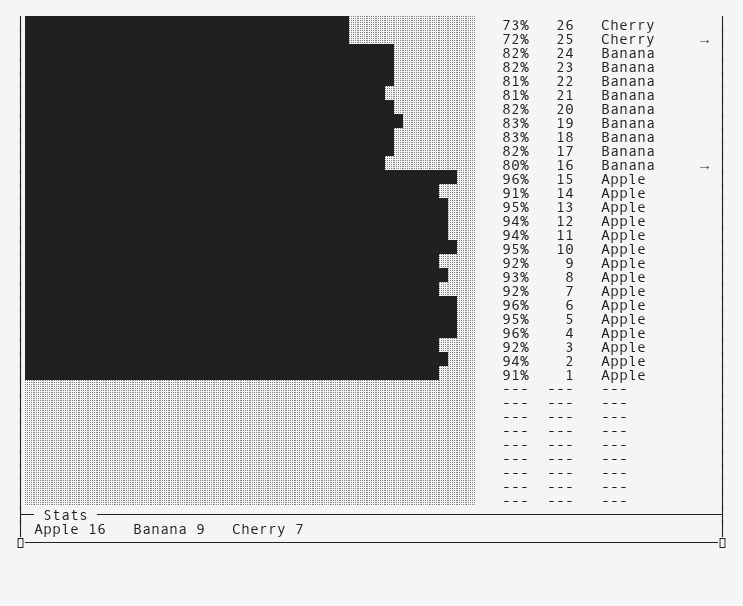
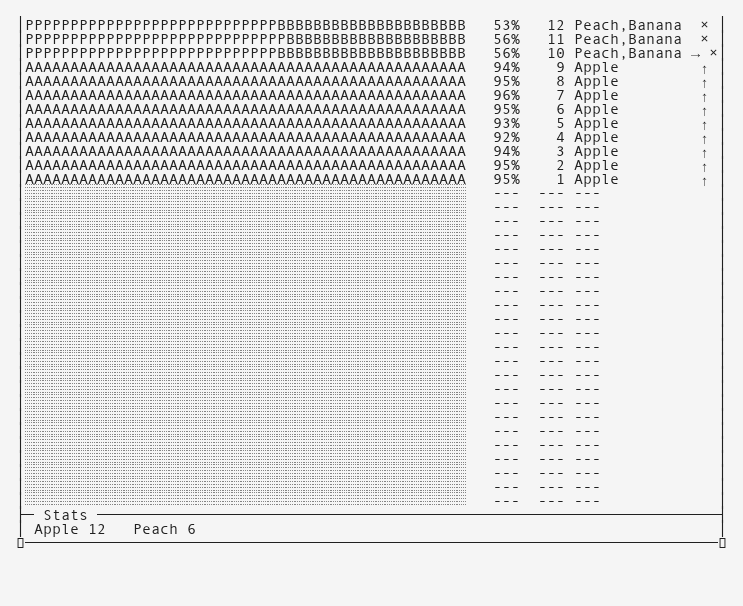
chore: regen screenshots for letter-bar threshold UI

diff --git a/scripts/fruits-demo.py b/scripts/fruits-demo.py
@@ -23,19 +23,25 @@ from trik_mind.output import UserOutputFormatter
 class FruitDemo:
     """Generates a realistic prediction stream for visual QA of the dashboard.
 
-    Emits three types of events:
-    - High-conf detection (normal)
-    - Low-conf / uncertain (simulates no clear label)
-    - Error (simulates camera / model failure)
+    Emits a sequence of curated scenarios so every part of the new stacked
+    letter-bar is exercised:
+    - High-conf detection (normal)          — thick winner, thin runners
+    - Apple/Peach confusion (near-tie)      — "peach misread as apple" case:
+      both labels mid+, nearly equal split, visible as A|P segments
+    - Confident split across 3 labels       — A/B/C segments all visible
+    - Hold (winner between view & send)     — shown but NOT sent to robot
+    - Low-conf / uncertain (no mid label)   — dim empty bar
+    - Error (simulated camera failure)      — "---" row
     """
 
-    LABELS: ClassVar[list[str]] = ["Apple", "Banana", "Cherry", "Dewberry"]
+    LABELS: ClassVar[list[str]] = ["Apple", "Peach", "Banana", "Cherry"]
+    VIEW_THRESHOLD: ClassVar[float] = 0.4
+    SEND_THRESHOLD: ClassVar[float] = 0.6
 
     def __init__(self, formatter: UserOutputFormatter) -> None:
         self._fmt = formatter
         self._running = True
         self._label_ix = 0
-        self._same = 0
         self._phase = "high"
         self._phase_countdown = 0
         signal.signal(signal.SIGINT, self._signal)
@@ -46,54 +52,70 @@ class FruitDemo:
         self._fmt.close()
         raise SystemExit(0)
 
-    def _top3(self, ix: int, base: float = 0.95) -> list[tuple[str, float]]:
-        """Top-3 labels with declining confidence from *base*."""
-        return [(self.LABELS[(ix + i) % 4], max(base - i * 0.18, 0.01)) for i in range(3)]
+    def _dist(self, ix: int, scenario: str) -> tuple[str, float, list[tuple[str, float]]]:
+        """Return (label, confidence, top_labels) for the given scenario.
+
+        Scenarios select distinct distributions over the label pool so each
+        stacked-bar case is visible: clear winner, near-tie, 3-way spread,
+        and low-uncertainty (no mid+ label).
+        """
+        if scenario == "high":
+            base = [0.94, 0.14, 0.06, 0.02]
+        elif scenario == "peach":
+            base = [0.85, 0.78, 0.05, 0.02]
+        elif scenario == "spread":
+            base = [0.82, 0.70, 0.58, 0.10]
+        elif scenario == "hold":
+            base = [0.55, 0.42, 0.12, 0.04]
+        else:  # low
+            base = [0.42, 0.34, 0.22, 0.15]
+        jitter = [random.uniform(-0.02, 0.02) for _ in base]
+        labels = sorted(  # keep sorted desc by confidence, like a real model
+            [(self.LABELS[(ix + i) % 4], max(0.01, base[i] + jitter[i])) for i in range(4)],
+            key=lambda x: -x[1],
+        )
+        return labels[0][0], round(labels[0][1], 3), labels
 
     def step(self) -> None:
-        """Emit one prediction frame with varying confidence levels."""
+        """Emit one prediction frame with varying confidence distributions."""
         # Manage phases
         self._phase_countdown -= 1
         if self._phase_countdown <= 0:
-            # Pick a new phase
+            # Pick a new scenario
             r = random.random()
-            if r < 0.15:  # 15% chance: error burst
+            if r < 0.12:  # 12% chance: error burst
                 self._phase = "error"
                 self._phase_countdown = int(random.uniform(1, 3))
-            elif r < 0.30:  # 15% chance: low-conf uncertainty
+            elif r < 0.26:  # 14% chance: low-conf uncertainty (no mid label)
                 self._phase = "low"
                 self._phase_countdown = int(random.uniform(3, 7))
-            else:  # 70% chance: normal high-conf detection
+            elif r < 0.5:  # 24% chance: apple/peach confusion (near-tie)
+                self._phase = "peach"
+                self._phase_countdown = int(random.uniform(5, 12))
+                self._label_ix = 0  # force Apple-lead so Peach appears as runner
+            elif r < 0.62:  # 12% chance: winner between view and send — shown, held back
+                self._phase = "hold"
+                self._phase_countdown = int(random.uniform(4, 8))
+            else:  # 38% chance: normal high-conf detection
                 self._phase = "high"
                 self._phase_countdown = int(random.uniform(8, 16))
                 self._label_ix = (self._label_ix + 1) % 4
-                self._same = 0
 
         timing = 0.028 + random.uniform(0, 0.015)
         sleep_s = 1.0 / (10 + random.uniform(0, 7))
 
         if self._phase == "error":
-            self._fmt.on_error(timing, self._top3(self._label_ix, 0.1))
+            label, conf, labels = self._dist(self._label_ix, "low")
+            self._fmt.on_error(timing, labels)
             time.sleep(sleep_s)
             return
 
-        if self._phase == "low":
-            # All labels have similar low confidence — model is uncertain
-            low_base = 0.1 + random.uniform(0, 0.15)
-            label = self.LABELS[self._label_ix]
-            conf = round(low_base + random.uniform(0, 0.08), 3)
-            self._fmt.on_prediction(label, conf, timing, self._top3(self._label_ix, low_base))
-            time.sleep(sleep_s)
-            return
-
-        # High-conf normal detection
-        if self._same >= 8 + int(random.uniform(0, 7)):
-            self._label_ix = (self._label_ix + 1) % 4
-            self._same = 0
-        label = self.LABELS[self._label_ix]
-        conf = round(0.95 - random.uniform(0, 0.12), 3)
-        self._fmt.on_prediction(label, conf, timing, self._top3(self._label_ix, 0.95))
-        self._same += 1
+        label, conf, labels = self._dist(self._label_ix, self._phase)
+        if conf < self.VIEW_THRESHOLD:
+            self._fmt.on_error(timing, labels)
+        else:
+            self._fmt.on_prediction(label, conf, timing, labels, sent=conf >= self.SEND_THRESHOLD)
+        self._label_ix = (self._label_ix + 1) % 4
         time.sleep(sleep_s)
 
     def run(self, duration: float | None) -> None:

diff --git a/scripts/render-screenshots.py b/scripts/render-screenshots.py
@@ -15,14 +15,14 @@ from __future__ import annotations
 import argparse
 import re
 from pathlib import Path
-from typing import TYPE_CHECKING
+from typing import NamedTuple, TYPE_CHECKING
 
 from PIL import Image, ImageDraw, ImageFont
 
 if TYPE_CHECKING:
     from collections.abc import Generator
 
-# ANSI SGR colour map (8-colour foreground, keyed by code digit)
+# ANSI SGR colour maps (8-colour foreground/background, keyed by code digit)
 _SGR_FG: dict[str, tuple[int, int, int]] = {
     "30": (0, 0, 0),
     "31": (0xCC, 0, 0),
@@ -41,6 +41,13 @@ _SGR_FG: dict[str, tuple[int, int, int]] = {
     "96": (0, 0xFF, 0xFF),
     "97": (0xFF, 0xFF, 0xFF),
 }
+_SGR_BG: dict[str, tuple[int, int, int]] = {
+    "41": (0xCC, 0, 0),
+    "42": (0, 0xCC, 0),
+    "43": (0xCC, 0xCC, 0),
+    "44": (0x33, 0x33, 0xFF),
+    "45": (0xCC, 0, 0xCC),
+}
 
 _ANSI_ESC = re.compile(r"\033\[([0-9;]*)m")
 _FULL_BLOCK = "\u2588"  # █
@@ -58,9 +65,10 @@ _FONT_SIZE = 15
 _FONT_PATH = "/usr/share/fonts/truetype/andale/Andale_Mono.ttf"
 
 
-def _segments(text: str) -> Generator[tuple[str, tuple[int, int, int] | None], None, None]:
-    """Yield (char, colour|None) for each visible character, consuming ANSI codes."""
+def _segments(text: str) -> Generator[tuple[str, tuple[int, int, int] | None, tuple[int, int, int] | None], None, None]:
+    """Yield (char, fg_colour, bg_colour) for each visible character, consuming ANSI codes."""
     fg: tuple[int, int, int] | None = None
+    bg: tuple[int, int, int] | None = None
     i = 0
     while i < len(text):
         m = _ANSI_ESC.match(text, i)
@@ -68,12 +76,15 @@ def _segments(text: str) -> Generator[tuple[str, tuple[int, int, int] | None], N
             params, i = m.group(1), m.end()
             if not params or params == "0":
                 fg = None
+                bg = None
                 continue
             for p in params.split(";"):
                 if p in _SGR_FG:
                     fg = _SGR_FG[p]
+                elif p in _SGR_BG:
+                    bg = _SGR_BG[p]
             continue
-        yield text[i], fg
+        yield text[i], fg, bg
         i += 1
 
 
@@ -82,6 +93,28 @@ def _load_font() -> ImageFont.FreeTypeFont | ImageFont.ImageFont:
         return ImageFont.truetype(_FONT_PATH, _FONT_SIZE)
     except OSError:
         return ImageFont.load_default()
+
+
+_Cell = NamedTuple("_Cell", [("char", str), ("fg", tuple[int, int, int] | None), ("bg", tuple[int, int, int] | None), ("x", int), ("y", int), ("x_end", int), ("y_end", int), ("font", "ImageFont.FreeTypeFont | ImageFont.ImageFont"), ("fg_default", tuple[int, int, int]), ("bg_default", tuple[int, int, int])])  # type: ignore[no-any-expr]  # pyright: ignore[reportUnknownVariableType,reportMissingTypeArgument]
+
+
+def _draw_cell(draw: ImageDraw.ImageDraw, cell: _Cell) -> None:
+    """Paint one terminal cell: optional bg fill, then block/dot/text glyph."""
+    colour = cell.fg if cell.fg is not None else cell.fg_default
+    if cell.bg is not None:
+        draw.rectangle([cell.x, cell.y, cell.x_end, cell.y_end], fill=cell.bg)
+        if cell.fg is None or cell.fg == cell.bg_default:
+            # dark text on bright background for letter-bars in colour mode
+            colour = (0, 0, 0) if cell.bg_default[0] > 0x80 else (0xFF, 0xFF, 0xFF)
+    if cell.char == _FULL_BLOCK:
+        draw.rectangle([cell.x, cell.y, cell.x_end, cell.y_end], fill=colour)
+    elif cell.char == _LIGHT_SHADE:
+        dot = tuple(v // 3 + base // 2 for v, base in zip(colour, cell.bg_default, strict=True))
+        for dx in range(0, cell.x_end - cell.x + 1, 2):
+            for dy in range(0, cell.y_end - cell.y + 1, 3):
+                draw.point((cell.x + dx, cell.y + dy), fill=dot)
+    else:
+        draw.text((cell.x, cell.y), cell.char, fill=colour, font=cell.font)
 
 
 def render(input_path: str, output_path: str, *, dark: bool) -> None:
@@ -113,23 +146,24 @@ def render(input_path: str, output_path: str, *, dark: bool) -> None:
     draw = ImageDraw.Draw(img)
 
     for ri, line in enumerate(lines[:_TERM_ROWS]):
-        for ci, (char, fg) in enumerate(_segments(line)):
+        for ci, (char, fg, bg) in enumerate(_segments(line)):
             if ci >= max_cols:
                 break
-            x = _PAD + ci * cw
-            y = _PAD + ri * ch
-            colour = fg if fg is not None else theme["fg"]
-
-            if char == _FULL_BLOCK:
-                draw.rectangle([x, y, x + cw - 1, y + ch - 1], fill=colour)
-            elif char == _LIGHT_SHADE:
-                # Dotted pattern at 25% intensity
-                dot = tuple(v // 3 + bg // 2 for v, bg in zip(colour, theme["bg"], strict=True))
-                for dx in range(0, cw, 2):
-                    for dy in range(0, ch, 3):
-                        draw.point((x + dx, y + dy), fill=dot)
-            else:
-                draw.text((x, y), char, fill=colour, font=font)
+            _draw_cell(
+                draw,
+                _Cell(
+                    char,
+                    fg,
+                    bg,
+                    _PAD + ci * cw,
+                    _PAD + ri * ch,
+                    _PAD + ci * cw + cw - 1,
+                    _PAD + ri * ch + ch - 1,
+                    font,
+                    theme["fg"],
+                    theme["bg"],
+                ),
+            )
 
     img.save(output_path)
     print(f"Saved {output_path}  {iw}x{ih}, {len(lines)} rows, {max_cols} cols")

diff --git a/scripts/gen-demo.py b/scripts/gen-demo.py
@@ -4,7 +4,8 @@
 Generate ANSI demo output for screenshot pipeline.
 
 Emits two .ansi files (dark + light) with a realistic prediction sequence
-using Apple/Banana/Cherry/Dewberry labels, 10-17 FPS, 3 label changes.
+exercising the threshold UI: high-conf detection, Apple/Peach near-tie
+letter-bar, a hold row (shown, not sent) and sent rows.
 
 Usage:
     uv run scripts/gen-demo.py                    # writes .tmp/demo-*.ansi
@@ -23,12 +24,24 @@ from pathlib import Path
 
 sys.path.insert(0, str(Path(__file__).resolve().parent.parent))
 
-_LABELS = ["Apple", "Banana", "Cherry", "Dewberry"]
+_LABELS = ["Apple", "Peach", "Banana", "Cherry"]
 _TERM = os.terminal_size((81, 50))
+_VIEW = 0.4
+_SEND = 0.6
 
 
-def _top3(ix: int) -> list[tuple[str, float]]:
-    return [(_LABELS[(ix + i) % 4], max(0.95 - i * 0.18, 0.01)) for i in range(3)]
+def _dist(ix: int, scenario: str) -> list[tuple[str, float]]:
+    base = {
+        "high": [0.94, 0.14, 0.06, 0.02],
+        "peach": [0.85, 0.78, 0.05, 0.02],
+        "spread": [0.82, 0.70, 0.58, 0.10],
+        "hold": [0.55, 0.42, 0.12, 0.04],
+    }[scenario]
+    jitter = [random.uniform(-0.02, 0.02) for _ in base]
+    return sorted(
+        [(_LABELS[(ix + i) % 4], max(0.01, base[i] + jitter[i])) for i in range(4)],
+        key=lambda x: -x[1],
+    )
 
 
 def _fixed_term(*_args: object) -> os.terminal_size:
@@ -50,32 +63,28 @@ def capture_demo(*, color: bool) -> str:
     import trik_mind.output as m  # noqa: PLC0415
 
     m._HAS_UNICODE = True  # noqa: SLF001  # pyright: ignore[reportPrivateUsage]
-    fmt = m.UserOutputFormatter(color_enabled=color)
+    fmt = m.UserOutputFormatter(color_enabled=color, view_threshold=_VIEW)
     fmt._raw_width = 79  # noqa: SLF001  # pyright: ignore[reportPrivateUsage]
     fmt._width = 79  # noqa: SLF001  # pyright: ignore[reportPrivateUsage]
     fmt.set_context("fruit_classifier.onnx  |  USB@640x480")
     fmt._change_t0 = fmt._last_change_time = _time.monotonic()  # noqa: SLF001  # pyright: ignore[reportPrivateUsage]
 
-    # Apple (15 frames) → Banana (8) → Cherry (6) → Apple (ends on a change)
-    for _ in range(15):
-        fmt.on_prediction("Apple", round(0.97 - random.uniform(0, 0.06), 3), 0.028 + random.uniform(0, 0.018), _top3(0))
-        _time.sleep(0.0005)
+    def emit(scenario: str, ix: int, frames: int) -> None:
+        for _ in range(frames):
+            labels = _dist(ix, scenario)
+            label, conf = labels[0][0], labels[0][1]
+            if conf < _VIEW:
+                fmt.on_error(0.028, labels)
+            else:
+                fmt.on_prediction(label, conf, 0.028, labels, sent=conf >= _SEND)
+            _time.sleep(0.0005)
+
+    # Apple (high) → Banana (hold) → Peach near-tie (final, ends on change sent)
+    emit("high", 0, 9)
     _time.sleep(0.002)
-    fmt.on_prediction("Banana", round(0.80 + random.uniform(0, 0.04), 3), 0.031, _top3(1))
-    for _ in range(8):
-        fmt.on_prediction(
-            "Banana", round(0.85 - random.uniform(0, 0.05), 3), 0.029 + random.uniform(0, 0.012), _top3(1)
-        )
-        _time.sleep(0.0005)
+    emit("hold", 1, 6)
     _time.sleep(0.002)
-    fmt.on_prediction("Cherry", round(0.70 + random.uniform(0, 0.04), 3), 0.033, _top3(2))
-    for _ in range(6):
-        fmt.on_prediction(
-            "Cherry", round(0.73 + random.uniform(-0.03, 0.03), 3), 0.030 + random.uniform(0, 0.015), _top3(2)
-        )
-        _time.sleep(0.0005)
-    _time.sleep(0.002)
-    fmt.on_prediction("Apple", 0.95, 0.027, _top3(0))
+    emit("peach", 0, 3)
     fmt.close()
 
     sys.stderr = old_stderr
@@ -97,6 +106,9 @@ def main() -> None:
         lines = [ln for ln in clean.split("\n") if ln.strip()]
         changes = sum(1 for ln in lines if "→" in ln or "->" in ln)
         print(f"{path}: {len(lines)} lines, {changes} changes")
+        holds = sum(1 for ln in lines if "×" in ln or "x" in ln)  # noqa: RUF001
+        sents = sum(1 for ln in lines if "↑" in ln or "^" in ln)
+        print(f"   -> {holds} hold rows, {sents} sent rows")
 
 
 if __name__ == "__main__":
